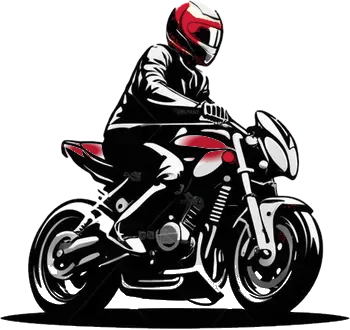
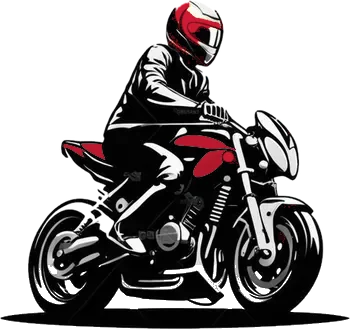
Bike panels coloured whole in wine; demo dot after the text
Claude-Session: https://claude.ai/code/session_011svZSxEu7wpuhhs3qeC1tv

diff --git a/js/views.js b/js/views.js
@@ -282,7 +282,7 @@ export function today(c) {
   const good = !v.over && !v.soon && !fs.onReserve;
   const cc = connCard(c, good), ccIn = cc.startsWith('<div class="bc-conn');
   return `<div class="stagger">
-  <div class="pagehead today-head"><div class="th-row"><div style="min-width:0"><h1 class="title">${new Date().toLocaleDateString(DL(), { weekday: 'long' })}</h1><div class="subtitle">${s.sample || live.scenario || link.simulated ? '<span class="demo-pill"><i></i>Demo mode</span>' : new Date().toLocaleDateString(DL(), { day: 'numeric', month: 'long' })}</div></div>
+  <div class="pagehead today-head"><div class="th-row"><div style="min-width:0"><h1 class="title">${new Date().toLocaleDateString(DL(), { weekday: 'long' })}</h1><div class="subtitle">${s.sample || live.scenario || link.simulated ? '<span class="demo-pill">Demo mode<i></i></span>' : new Date().toLocaleDateString(DL(), { day: 'numeric', month: 'long' })}</div></div>
     <div class="head-actions"><button class="circle" data-act="sheet" data-arg="sos" aria-label="Emergency SOS" style="color:var(--red)">${icon('sos')}</button></div></div></div>
   ${live.scenario ? previewBar(live) : ''}
   <div class="bikecard">

diff --git a/sw.js b/sw.js
@@ -1,5 +1,5 @@
 // Waylink — offline shell. Caches the app's own files; fonts are cached as they load.
-const CACHE = 'waylink-v141';
+const CACHE = 'waylink-v142';
 const SHELL = ['./', 'index.html', 'styles.css', 'js/app.js', 'js/views.js', 'js/store.js', 'js/link.js', 'js/protocol.js', 'js/sound.js', 'js/icons-huge.js', 'img/onb/scene-light.webp', 'img/onb/scene-dark.webp', 'img/onb/scene-night.webp', 'img/grain.png', 'img/onb/rider-mono.webp', 'img/onb/rider-street.webp', 'img/onb/bt-disc.webp', 'manifest.webmanifest', 'icon.svg', 'img/logos/wl-loop-rust.svg', 'img/logos/wl-turns-rust.svg', 'img/logos/png/wl-loop-rust-180.png'];
 // Cache each file on its own, so one missing file can't block an update.
 self.addEventListener('install', (e) => { e.waitUntil(caches.open(CACHE).then((c) => Promise.all(SHELL.map((u) => c.add(new Request(u, { cache: 'reload' })).catch(() => {})))).then(() => self.skipWaiting())); });

diff --git a/tools/bike_wine.py b/tools/bike_wine.py
@@ -11,13 +11,15 @@ WINE = np.array([0xA8, 0x16, 0x2A], np.float32) / 255
 yel = np.clip((1 - np.abs(h - 52) / 32) * 2, 0, 1) * np.clip((s - .15) / .12, 0, 1)
 wine_y = np.clip(WINE * (.5 + .75 * v)[..., None], 0, 1)
 out = rgb * (1 - yel[..., None]) + wine_y * yel[..., None]
-# 2. white panels on the tank and the tail cowl → wine
-H, W = v.shape; yy, xx = np.mgrid[0:H, 0:W].astype(np.float32)
-ovals = [(206, 146, 30, 17), (84, 150, 24, 10)]  # tank, tail cowl: centre x, y and radii in image pixels
-region = np.zeros_like(v)
-for cx, cy, rx, ry in ovals: region = np.maximum(region, np.clip(2.2 - 2.2 * np.hypot((xx - cx) / rx, (yy - cy) / ry), 0, 1))
-white = np.clip((v - .62) / .2, 0, 1) * np.clip((.22 - s) / .12, 0, 1) * region
-panel = np.clip(WINE * (.7 + .4 * v[..., None]), 0, 1)
-out = out * (1 - white[..., None]) + panel * white[..., None]
+# 2. whole white panels on the tank, side cover and tail cowl → wine (picked by shape, so each fills edge to edge)
+from scipy import ndimage
+white = (v > .62) & (s < .25) & (al[..., 0] > .5)
+lab, _ = ndimage.label(white)
+PANELS = [(200, 141), (208, 163), (74, 148), (94, 149)]  # a point inside each panel, image pixels
+pick = np.isin(lab, [lab[y, x] for x, y in PANELS if lab[y, x]])
+pick = ndimage.binary_dilation(pick, iterations=2)  # take in the soft anti-aliased rim
+w = (pick * np.clip((v - .28) / .34, 0, 1))[..., None]
+panel = np.clip(WINE * (.62 + .5 * v[..., None]), 0, 1)
+out = out * (1 - w) + panel * w
 Image.fromarray((np.dstack([out, al]) * 255).round().astype(np.uint8), 'RGBA').save('img/onb/rider-street.webp', quality=86, method=6)
 print('ok')
